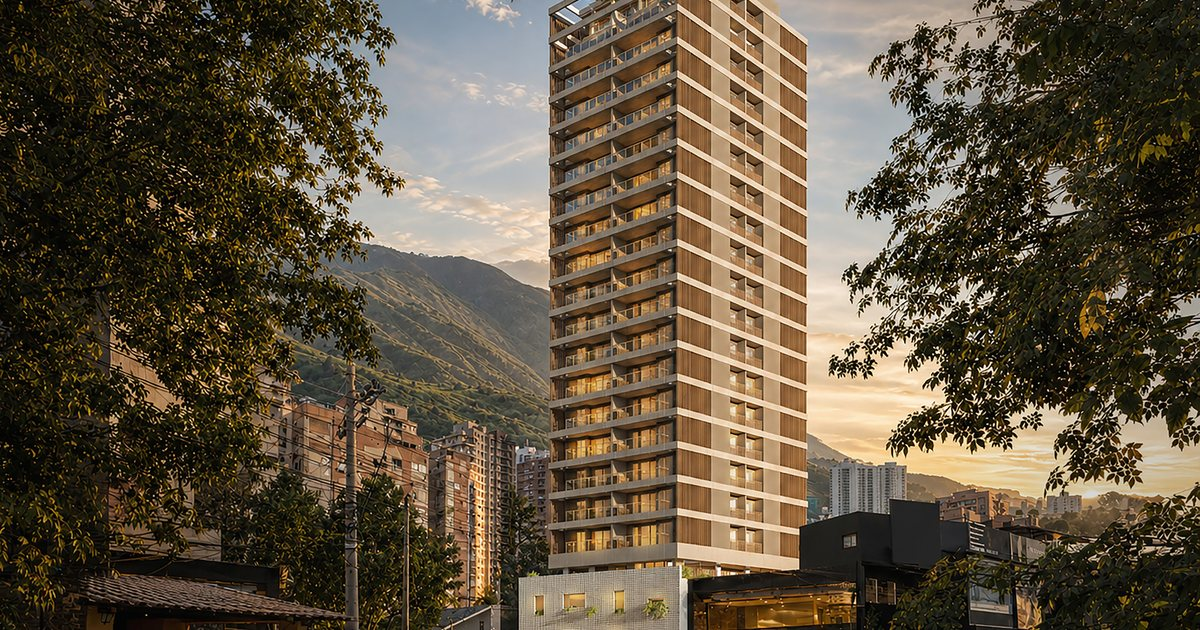
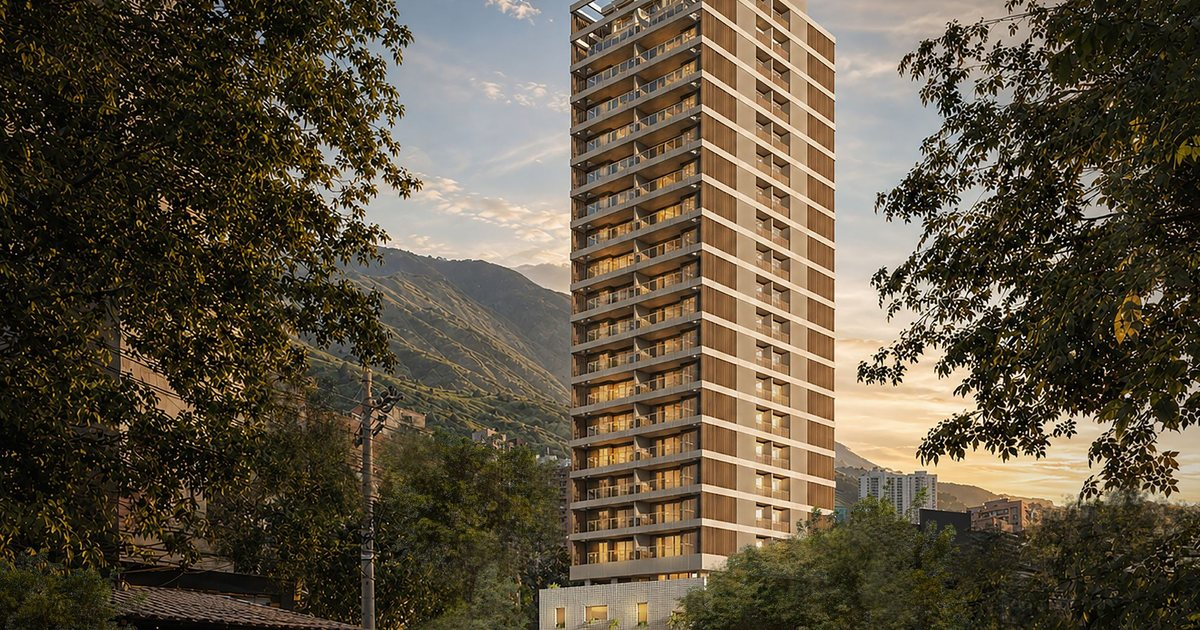
Atualiza renders e textos conforme o book comercial Rev03 e o documento de informações exclusivas
- Troca todos os renders pelas imagens novas do empreendimento (fachada, brises,
  lounge/portaria, piscina, gourmet, academia, spa, sauna, brinquedoteca, coworking,
  salão de festas, sala, suíte master, cozinha, lavabo, banho suíte, varanda)
- Mapa ilustrativo do entorno no lugar do iframe do Google Maps, linkando pro Maps
- Remove todas as menções a valores (preço, tabela e entrada) do site, meta tags e JSON-LD
- Tipologias reais: 64 unidades, 71,52 a 71,77 m² do 1º ao 15º pavimento em três
  opções de planta, e quatro coberturas duplex de 3 suítes com 127,26 a 127,70 m²
- Acabamentos e infraestrutura: porcelanato Eliane 90x90, granito, Deca, Pormade
  com biometria, 187 mil litros de água, ramal exclusivo e reservatório de reuso
- Lazer completo do PUC e coworking no térreo, conforme o documento
- Localização: rua sem saída pela Av. Dr. Mário Guimarães, acessos, entorno,
  escolas, universidades e Praça do Skate
- Créditos de projeto e nota legal da NBR 12.721

diff --git a/index.html b/index.html
@@ -3,14 +3,14 @@
 <head>
 <meta charset="UTF-8">
 <meta name="viewport" content="width=device-width, initial-scale=1, viewport-fit=cover">
-<title>Apartamento 2 Quartos à Venda em Nova Iguaçu RJ | Fiore Residences</title>
-<meta name="description" content="Apartamentos de 2 quartos com suíte e vaga à venda em Nova Iguaçu, RJ. Fiore Residences, por Absoluto Engenharia, a partir de R$ 800 mil, com financiamento direto com a construtora e entrega prevista para dezembro de 2026. Piscina, academia, gourmet e coworking. Cadastre-se e receba as condições de pré-lançamento.">
+<title>Fiore Residences | Apartamentos de 2 e 3 Suítes em Nova Iguaçu, RJ</title>
+<meta name="description" content="Fiore Residences, lançamento da Absoluto Engenharia no centro de Nova Iguaçu, RJ. 64 unidades exclusivas de 71,52 m² a 127,70 m², com 2 ou 3 suítes, varanda gourmet e vaga. Piscina, academia, spa, sauna, salão de festas, brinquedoteca e coworking. Cadastre-se e receba as plantas e as condições de pré-lançamento.">
 <meta name="theme-color" content="#100D09">
 <link rel="icon" type="image/png" href="img/favicon.png">
 <link rel="icon" type="image/png" sizes="192x192" href="img/icon-192.png">
 <link rel="apple-touch-icon" href="img/icon-192.png">
-<meta property="og:title" content="Fiore Residences. Apartamento de 2 quartos à venda em Nova Iguaçu, RJ">
-<meta property="og:description" content="Apartamentos de 2 quartos com suíte e vaga, a partir de R$ 800 mil, com financiamento direto com a construtora e entrega em dezembro de 2026. Piscina, academia, gourmet e coworking, na melhor localização de Nova Iguaçu, RJ.">
+<meta property="og:title" content="Fiore Residences. Apartamentos de 2 e 3 suítes em Nova Iguaçu, RJ">
+<meta property="og:description" content="64 unidades exclusivas de 71,52 m² a 127,70 m², com varanda gourmet e vaga, no coração de Nova Iguaçu. Lazer de clube com piscina, academia, spa, sauna, salão de festas e coworking. Um lançamento Absoluto Engenharia.">
 <meta property="og:url" content="https://fiore-residences.vercel.app/">
 <meta property="og:site_name" content="Fiore Residences">
 <meta property="og:image" content="img/og.jpg">
@@ -27,7 +27,7 @@ j=d.createElement(s),dl=l!='dataLayer'?'&l='+l:'';j.async=true;j.src=
 <link rel="stylesheet" href="css/style.css">
 <link rel="canonical" href="https://fiore-residences.vercel.app/">
 <script type="application/ld+json">
-{"@context":"https://schema.org","@type":"Residence","name":"Fiore Residences","description":"Apartamentos de 2 quartos com suíte e vaga e coberturas em Nova Iguaçu, RJ. Lançamento Absoluto Engenharia, a partir de R$ 800 mil, com financiamento direto com a construtora e entrega prevista para dezembro de 2026.","url":"https://fiore-residences.vercel.app/","image":"https://fiore-residences.vercel.app/img/og.jpg","numberOfRooms":2,"address":{"@type":"PostalAddress","streetAddress":"Rua Hermida Cerbino, 95","addressLocality":"Nova Iguaçu","addressRegion":"RJ","postalCode":"26255-390","addressCountry":"BR"},"developer":{"@type":"Organization","name":"Absoluto Engenharia","url":"https://absoluto-engenharia.vercel.app/"},"offers":{"@type":"Offer","priceCurrency":"BRL","price":"800000","availability":"https://schema.org/PreOrder"}}
+{"@context":"https://schema.org","@type":"Residence","name":"Fiore Residences","description":"Apartamentos de 2 e 3 suítes em Nova Iguaçu, RJ. 64 unidades exclusivas de 71,52 m² a 127,70 m², com varanda gourmet e vaga. Lançamento Absoluto Engenharia em parceria com a WSequeira, com entrega prevista para dezembro de 2026.","url":"https://fiore-residences.vercel.app/","image":"https://fiore-residences.vercel.app/img/og.jpg","numberOfRooms":2,"address":{"@type":"PostalAddress","streetAddress":"Rua Hermida Cerbino, 95","addressLocality":"Nova Iguaçu","addressRegion":"RJ","postalCode":"26255-390","addressCountry":"BR"},"developer":{"@type":"Organization","name":"Absoluto Engenharia","url":"https://absoluto-engenharia.vercel.app/"}}
 </script>
 </head>
 <body>
@@ -88,7 +88,7 @@ height="0" width="0" style="display:none;visibility:hidden"></iframe></noscript>
     <video class="hero-video" autoplay muted loop playsinline preload="auto" poster="img/hero-poster.jpg" aria-hidden="true">
       <source src="video/hero.mp4" type="video/mp4">
     </video>
-    <img class="hero-fallback" src="img/hero.jpg" alt="Torre Fiore Residences ao entardecer, na melhor localização de Nova Iguaçu" fetchpriority="high">
+    <img class="hero-fallback" src="img/v2/destaques.jpg" alt="Torre do Fiore Residences ao entardecer, com o Maciço da Mendanha ao fundo, em Nova Iguaçu" fetchpriority="high">
   </div>
   <div class="hero-shade" aria-hidden="true"></div>
   <div class="wrap hero-inner">
@@ -102,7 +102,7 @@ height="0" width="0" style="display:none;visibility:hidden"></iframe></noscript>
 
     <div class="hero-floor">
       <div class="hero-lead" data-rise>
-        <p>Pré-lançamento. Apartamentos de 2 quartos a partir de R$ 800 mil, com financiamento direto com a construtora e entrega prevista para dezembro de 2026. Cadastre-se e receba a tabela e as plantas.</p>
+        <p>Pré-lançamento no coração de Nova Iguaçu. 64 unidades exclusivas de 2 e 3 suítes, todas com varanda gourmet e vaga, em uma torre autoral com lazer de clube. Cadastre-se e receba as plantas.</p>
         <div class="hero-actions">
           <a class="btn btn-primary" href="#cadastro" data-cursor data-magnetic>
             Quero as condições do pré-lançamento
@@ -117,9 +117,9 @@ height="0" width="0" style="display:none;visibility:hidden"></iframe></noscript>
 
       <div class="hero-aside" data-rise>
         <div class="hero-proof">
-          <div class="proof-item"><strong>R$ 800 mil</strong><span>a partir de</span></div>
+          <div class="proof-item"><strong>64 unidades</strong><span>exclusivas</span></div>
           <div class="proof-line"></div>
-          <div class="proof-item"><strong>2 quartos</strong><span>suíte · vaga</span></div>
+          <div class="proof-item"><strong>71 a 127 m²</strong><span>2 e 3 suítes</span></div>
           <div class="proof-line"></div>
           <div class="proof-item"><strong>Clube</strong><span>lazer completo</span></div>
         </div>
@@ -135,10 +135,10 @@ height="0" width="0" style="display:none;visibility:hidden"></iframe></noscript>
     <div class="manifesto-text">
       <span class="eyebrow dot" data-rise>O Empreendimento</span>
       <h2 class="display h-l manifesto-h" data-split>Uma torre que<br>se destaca</h2>
-      <p class="lead" data-rise>O Fiore Residences nasce de uma arquitetura autoral. Uma torre esguia, vestida por uma fachada de cobogó que filtra a luz, ventila os ambientes e dá ao edifício uma identidade que não se repete em Nova Iguaçu.</p>
+      <p class="lead" data-rise>No embasamento, uma fachada vazada de cobogós filtra a luz e ventila os ambientes. À noite, o edifício se transforma em uma luminária urbana que ilumina a rua. Sobre o pilotis de lazer, um volume puro parece flutuar, com brises que garantem privacidade, luz filtrada e ventilação aos apartamentos.</p>
       <div class="manifesto-foot">
-        <p data-rise>Apartamentos de 2 quartos e coberturas, varandas generosas e um clube completo de lazer, na melhor localização de Nova Iguaçu. Um endereço que não se repete.</p>
-        <span class="sign" data-rise>Fiore Residences, por Absoluto Engenharia.</span>
+        <p data-rise>São 64 unidades exclusivas, de 2 a 3 suítes, todas com varanda ampla debruçada sobre o Maciço da Mendanha. Arquitetura e interiores assinados pelo Studio R em colaboração com a Catolé Arquitetura.</p>
+        <span class="sign" data-rise>Fiore Residences. Absoluto Engenharia e WSequeira.</span>
       </div>
       <a class="btn btn-primary btn-lg" style="margin-top:30px" href="https://fiore-tour-360.vercel.app/" target="_blank" rel="noopener" data-rise data-cursor data-magnetic aria-label="Abrir o tour virtual do apartamento modelo">
         Tour virtual do apartamento
@@ -148,7 +148,7 @@ height="0" width="0" style="display:none;visibility:hidden"></iframe></noscript>
     <div class="manifesto-media" data-rise>
       <span class="media-tag">Fiore · Nova Iguaçu</span>
       <div class="media-img">
-        <img src="img/tower.jpg" alt="A torre Fiore Residences vista de baixo, ao entardecer" loading="lazy">
+        <img src="img/v2/capa.jpg" alt="A torre do Fiore Residences vista da rua, com o embasamento em cobogó" loading="lazy">
         <span class="mi-cap">Fachada autoral</span>
       </div>
     </div>
@@ -163,7 +163,7 @@ height="0" width="0" style="display:none;visibility:hidden"></iframe></noscript>
   <div class="wrap">
     <span class="eyebrow" data-rise>O dia inteiro, dentro de casa</span>
     <h2 data-split>Lazer com cara<br>de resort</h2>
-    <p class="banner-sub" data-rise>Da piscina ao spa, do gourmet ao coworking. Tudo pensado para que você não precise sair para viver bem.</p>
+    <p class="banner-sub" data-rise>Da piscina ao spa, do forno de pizza ao coworking. Um pavimento inteiro de lazer, entregue equipado e montado para uso exclusivo dos moradores.</p>
   </div>
 </section>
 
@@ -182,73 +182,81 @@ height="0" width="0" style="display:none;visibility:hidden"></iframe></noscript>
       <div class="gal-item intro-card">
         <span class="eyebrow" style="margin-bottom:18px">Nova Iguaçu · RJ</span>
         <p class="display h-m" style="font-weight:500">Cada perspectiva, uma nova razão para morar aqui.</p>
-        <p class="lead" style="margin-top:18px;color:var(--muted)">Imagens preliminares do projeto. Role para o lado.</p>
+        <p class="lead" style="margin-top:18px;color:var(--muted)">Imagens ilustrativas do projeto. Role para o lado.</p>
       </div>
-      <div class="gal-item"><img src="img/facade.jpg" alt="Fachada frontal do Fiore com cobogó e o acesso principal" loading="lazy"><span class="cap">Fachada</span></div>
-      <div class="gal-item"><img src="img/areas/lobby-01.jpg" alt="Lobby do Fiore com luminárias pendentes, poltrona e ripado de madeira" loading="lazy"><span class="cap">Lobby</span></div>
-      <div class="gal-item"><img src="img/cobogo.jpg" alt="Detalhe da fachada em cobogó do Fiore com vegetação" loading="lazy"><span class="cap">Cobogó</span></div>
-      <div class="gal-item"><img src="img/areas/piscina-1.jpg" alt="Piscina do Fiore com deck e ombrelones junto à fachada" loading="lazy"><span class="cap">Piscina</span></div>
-      <div class="gal-item"><img src="img/floors.jpg" alt="Pavimentos superiores do Fiore iluminados ao entardecer" loading="lazy"><span class="cap">Varandas</span></div>
-      <div class="gal-item"><img src="img/areas/gourmet-1.jpg" alt="Espaço gourmet do Fiore com bancada, banquetas e adega" loading="lazy"><span class="cap">Gourmet</span></div>
-      <div class="gal-item portrait"><img src="img/tower.jpg" alt="A torre Fiore Residences em toda a sua altura" loading="lazy"><span class="cap">A torre</span></div>
-      <div class="gal-item"><img src="img/areas/academia-2.jpg" alt="Academia do Fiore com vidro do piso ao teto ao pôr do sol" loading="lazy"><span class="cap">Academia</span></div>
-      <div class="gal-item"><img src="img/corner.jpg" alt="Vista em perspectiva da torre Fiore Residences em Nova Iguaçu" loading="lazy"><span class="cap">A torre</span></div>
-      <div class="gal-item"><img src="img/areas/spa.jpg" alt="Spa do Fiore com ambiente minimalista e vista para fora" loading="lazy"><span class="cap">Spa</span></div>
-      <div class="gal-item"><img src="img/entrance.jpg" alt="Acesso do Fiore em ripado de madeira com paisagismo" loading="lazy"><span class="cap">Acesso</span></div>
+      <div class="gal-item"><img src="img/v2/fachada.jpg" alt="Fachada do Fiore Residences com brises e embasamento em cobogó" loading="lazy"><span class="cap">Fachada</span></div>
+      <div class="gal-item"><img src="img/v2/lounge-portaria-01.jpg" alt="Lounge e portaria do Fiore com pé-direito alto e iluminação quente" loading="lazy"><span class="cap">Lounge e portaria</span></div>
+      <div class="gal-item"><img src="img/v2/brises.jpg" alt="Detalhe dos brises articulados da fachada do Fiore" loading="lazy"><span class="cap">Brises</span></div>
+      <div class="gal-item"><img src="img/v2/piscina-01.jpg" alt="Piscina adulto e infantil do Fiore com deck e espreguiçadeiras" loading="lazy"><span class="cap">Piscina</span></div>
+      <div class="gal-item"><img src="img/v2/varanda.jpg" alt="Varanda gourmet do Fiore com vista para a cidade" loading="lazy"><span class="cap">Varanda gourmet</span></div>
+      <div class="gal-item"><img src="img/v2/area-gourmet-01.jpg" alt="Área gourmet do Fiore com bancada, churrasqueira e forno de pizza" loading="lazy"><span class="cap">Área gourmet</span></div>
+      <div class="gal-item portrait"><img src="img/v2/capa.jpg" alt="A torre do Fiore Residences em toda a sua altura" loading="lazy"><span class="cap">A torre</span></div>
+      <div class="gal-item"><img src="img/v2/academia-01.jpg" alt="Academia do Fiore com equipamentos e vidro do piso ao teto" loading="lazy"><span class="cap">Academia</span></div>
+      <div class="gal-item"><img src="img/v2/sala-01.jpg" alt="Sala de estar de um apartamento do Fiore, integrada à varanda" loading="lazy"><span class="cap">Sala</span></div>
+      <div class="gal-item"><img src="img/v2/suite-master-01.jpg" alt="Suíte master de um apartamento do Fiore" loading="lazy"><span class="cap">Suíte master</span></div>
+      <div class="gal-item"><img src="img/v2/cozinha-gourmet.jpg" alt="Cozinha do Fiore com bancada em granito e cuba gourmet em aço inoxidável" loading="lazy"><span class="cap">Cozinha</span></div>
+      <div class="gal-item portrait"><img src="img/v2/lavabo.jpg" alt="Lavabo de um apartamento do Fiore" loading="lazy"><span class="cap">Lavabo</span></div>
+      <div class="gal-item"><img src="img/v2/banheiro-suite-01.jpg" alt="Banheiro de suíte do Fiore com bancada em granito" loading="lazy"><span class="cap">Banho suíte</span></div>
+      <div class="gal-item"><img src="img/v2/spa.jpg" alt="Spa do Fiore com ambiente minimalista" loading="lazy"><span class="cap">Spa</span></div>
+      <div class="gal-item"><img src="img/v2/salao-festas-01.jpg" alt="Salão de festas do Fiore com mesas e lounge" loading="lazy"><span class="cap">Salão de festas</span></div>
+      <div class="gal-item"><img src="img/v2/entrada.jpg" alt="Acesso do Fiore com cobogó, canteiros e paisagismo" loading="lazy"><span class="cap">Acesso</span></div>
     </div>
     <div class="gal-progress"><i data-gal-prog></i></div>
   </div>
 </section>
 
-<!-- ============ FEATURES (lifestyle) ============ -->
+<!-- ============ LAZER ============ -->
 <section class="feats tone-warm" id="lazer">
   <div class="wrap">
     <div class="diff-head">
       <h2 class="display h-l" data-split>Um clube dentro<br>de casa</h2>
-      <p class="lead" data-rise>Piscina, espaço gourmet, academia, spa e muito mais. Áreas comuns desenhadas como uma extensão do seu apartamento.</p>
+      <p class="lead" data-rise>Piscina adulto e infantil, brinquedoteca, academia, sauna a vapor, spa, salão de festas, churrasqueira, forno de pizza, área gourmet e copa cozinha. Tudo em um único pavimento de lazer, entregue equipado e montado. No térreo, uma sala de coworking exclusiva para reuniões dos moradores; nos quatro pavimentos de garagem, bicicletários.</p>
     </div>
     <div class="amen-grid">
-      <div class="amen feature" data-rise><img src="img/areas/piscina-1.jpg" alt="Piscina do Fiore com deck e ombrelones junto à fachada em cobogó" loading="lazy"><span class="cap">Piscina</span></div>
-      <div class="amen" data-rise><img src="img/areas/gourmet-1.jpg" alt="Espaço gourmet do Fiore com bancada, banquetas e adega" loading="lazy"><span class="cap">Espaço gourmet</span></div>
-      <div class="amen" data-rise><img src="img/areas/lobby-01.jpg" alt="Lobby do Fiore com luminárias pendentes e poltrona" loading="lazy"><span class="cap">Lobby</span></div>
-      <div class="amen" data-rise><img src="img/areas/academia-1.jpg" alt="Academia do Fiore com vidro do piso ao teto" loading="lazy"><span class="cap">Academia</span></div>
-      <div class="amen" data-rise><img src="img/areas/spa.jpg" alt="Spa do Fiore com ambiente minimalista e vista para fora" loading="lazy"><span class="cap">Spa</span></div>
-      <div class="amen" data-rise><img src="img/areas/festas-1.jpg" alt="Salão de festas do Fiore com lounge e vista" loading="lazy"><span class="cap">Salão de festas</span></div>
-      <div class="amen" data-rise><img src="img/areas/kids.jpg" alt="Espaço kids do Fiore com cabana e área de brincar" loading="lazy"><span class="cap">Espaço kids</span></div>
-      <div class="amen" data-rise><img src="img/areas/coworking.jpg" alt="Coworking do Fiore em madeira com sala de reunião" loading="lazy"><span class="cap">Coworking</span></div>
-      <div class="amen" data-rise><img src="img/areas/sauna.jpg" alt="Sauna do Fiore com banco e luz quente" loading="lazy"><span class="cap">Sauna</span></div>
+      <div class="amen feature" data-rise><img src="img/v2/piscina-02.jpg" alt="Piscina do Fiore com deck, espreguiçadeiras e vegetação" loading="lazy"><span class="cap">Piscina adulto e infantil</span></div>
+      <div class="amen" data-rise><img src="img/v2/area-gourmet-02.jpg" alt="Área gourmet do Fiore com bancada e banquetas" loading="lazy"><span class="cap">Área gourmet</span></div>
+      <div class="amen" data-rise><img src="img/v2/lounge-portaria-01.jpg" alt="Lounge e portaria do Fiore" loading="lazy"><span class="cap">Lounge e portaria</span></div>
+      <div class="amen" data-rise><img src="img/v2/academia-02.jpg" alt="Academia do Fiore com vista para a área externa" loading="lazy"><span class="cap">Academia</span></div>
+      <div class="amen" data-rise><img src="img/v2/spa.jpg" alt="Spa do Fiore" loading="lazy"><span class="cap">Spa</span></div>
+      <div class="amen" data-rise><img src="img/v2/salao-festas-02.jpg" alt="Salão de festas do Fiore com lounge e integração com a área externa" loading="lazy"><span class="cap">Salão de festas</span></div>
+      <div class="amen" data-rise><img src="img/v2/brinquedoteca.jpg" alt="Brinquedoteca do Fiore com área de brincar para crianças" loading="lazy"><span class="cap">Brinquedoteca</span></div>
+      <div class="amen" data-rise><img src="img/v2/coworking.jpg" alt="Coworking do Fiore no térreo, com mesa de reunião" loading="lazy"><span class="cap">Coworking</span></div>
+      <div class="amen" data-rise><img src="img/v2/sauna.jpg" alt="Sauna a vapor do Fiore" loading="lazy"><span class="cap">Sauna a vapor</span></div>
     </div>
   </div>
 </section>
 
-<!-- ============ BANNER 2 (lobby) ============ -->
+<!-- ============ BANNER 2 (lounge) ============ -->
 <section class="banner">
-  <div class="banner-bg" data-banner-bg><img src="img/areas/lobby-02.jpg" alt="Lobby do Fiore Residences em ripado de madeira e iluminação quente" loading="lazy"></div>
+  <div class="banner-bg" data-banner-bg><img src="img/v2/lounge-portaria-02.jpg" alt="Lounge e portaria do Fiore Residences com iluminação quente" loading="lazy"></div>
   <div class="wrap">
     <span class="eyebrow" data-rise>Receber como em um hotel</span>
     <h2 data-split>Um lobby que dá<br>o tom da casa</h2>
-    <p class="banner-sub" data-rise>Madeira e luz quente desde a chegada. O Fiore recebe quem mora e quem visita com a hospitalidade de um hotel de destino.</p>
+    <p class="banner-sub" data-rise>Piso em porcelanato, madeira e luz quente desde a chegada. O Fiore recebe quem mora e quem visita com a hospitalidade de um hotel de destino.</p>
   </div>
 </section>
 
-<!-- ============ PLANTAS / MATERIAL ============ -->
-<section class="plans tone-warm">
+<!-- ============ MATERIAL COMPLETO ============ -->
+<section class="plans">
   <div class="wrap">
     <div class="plans-card" data-rise>
       <div>
-        <span class="eyebrow">Tipologias &amp; Valores</span>
-        <h2 class="display h-m" style="margin-top:.4em">Apartamento de 2 quartos em Nova Iguaçu,<br>a partir de R$ 800 mil</h2>
+        <span class="eyebrow">Tipologias</span>
+        <h2 class="display h-m" style="margin-top:.4em">Apartamentos de 2 e 3 suítes<br>no centro de Nova Iguaçu</h2>
         <ul class="plans-list">
-          <li><svg viewBox="0 0 24 24" fill="none" stroke="currentColor" stroke-width="2"><path d="M20 6 9 17l-5-5" stroke-linecap="round" stroke-linejoin="round"/></svg>Apartamentos de 2 quartos, com suíte e vaga</li>
-          <li><svg viewBox="0 0 24 24" fill="none" stroke="currentColor" stroke-width="2"><path d="M20 6 9 17l-5-5" stroke-linecap="round" stroke-linejoin="round"/></svg>Financiamento direto com a construtora</li>
+          <li><svg viewBox="0 0 24 24" fill="none" stroke="currentColor" stroke-width="2"><path d="M20 6 9 17l-5-5" stroke-linecap="round" stroke-linejoin="round"/></svg>64 unidades exclusivas, quatro apartamentos por andar</li>
+          <li><svg viewBox="0 0 24 24" fill="none" stroke="currentColor" stroke-width="2"><path d="M20 6 9 17l-5-5" stroke-linecap="round" stroke-linejoin="round"/></svg>Do 1º ao 15º pavimento, de 71,52 m² a 71,77 m², em três opções de planta: duas suítes; uma suíte com closet e um quarto; ou sala ampla com uma suíte e um quarto</li>
+          <li><svg viewBox="0 0 24 24" fill="none" stroke="currentColor" stroke-width="2"><path d="M20 6 9 17l-5-5" stroke-linecap="round" stroke-linejoin="round"/></svg>Quatro coberturas duplex de três suítes, com 127,26 m² a 127,70 m² e duas vagas, nos 16º e 17º pavimentos</li>
+          <li><svg viewBox="0 0 24 24" fill="none" stroke="currentColor" stroke-width="2"><path d="M20 6 9 17l-5-5" stroke-linecap="round" stroke-linejoin="round"/></svg>Todas com lavabo, cozinha, área de serviço, varanda gourmet, vaga e infraestrutura de ar-condicionado com área técnica externa</li>
+          <li><svg viewBox="0 0 24 24" fill="none" stroke="currentColor" stroke-width="2"><path d="M20 6 9 17l-5-5" stroke-linecap="round" stroke-linejoin="round"/></svg>Porcelanato Eliane 90 x 90, bancadas em granito com cubas gourmet em inox, metais Deca e portas Pormade com fechadura biométrica</li>
+          <li><svg viewBox="0 0 24 24" fill="none" stroke="currentColor" stroke-width="2"><path d="M20 6 9 17l-5-5" stroke-linecap="round" stroke-linejoin="round"/></svg>187 mil litros de água armazenada, com ramal de abastecimento exclusivo e reservatório de reuso da água da chuva</li>
           <li><svg viewBox="0 0 24 24" fill="none" stroke="currentColor" stroke-width="2"><path d="M20 6 9 17l-5-5" stroke-linecap="round" stroke-linejoin="round"/></svg>Entrega prevista para dezembro de 2026</li>
-          <li><svg viewBox="0 0 24 24" fill="none" stroke="currentColor" stroke-width="2"><path d="M20 6 9 17l-5-5" stroke-linecap="round" stroke-linejoin="round"/></svg>Lazer completo: piscina, academia, gourmet e coworking</li>
         </ul>
       </div>
       <aside class="plans-aside">
         <span class="tag">Material exclusivo</span>
         <p class="big metal-text">Fiore<br>Residences</p>
-        <p>Receba no seu WhatsApp a tabela completa, as plantas, o valor da entrada e as condições de financiamento direto com a construtora.</p>
+        <p>Receba no seu WhatsApp o book completo do empreendimento, com as plantas das três tipologias, a cobertura duplex e as condições do pré-lançamento.</p>
         <a class="btn btn-primary btn-lg" style="width:100%;justify-content:center" href="https://wa.me/5521991024201?text=Ol%C3%A1!%20Quero%20receber%20o%20material%20completo%20do%20Fiore%20Residences." target="_blank" rel="noopener" data-cursor>
           Falar no WhatsApp
           <svg viewBox="0 0 24 24" fill="currentColor"><path d="M12 2a10 10 0 0 0-8.6 15l-1.3 4.7 4.8-1.3A10 10 0 1 0 12 2Zm5.6 14.2c-.2.6-1.2 1.2-1.7 1.2-.5.1-1 .1-1.6-.1-.4-.1-.9-.3-1.5-.5-2.6-1.1-4.3-3.7-4.4-3.9-.1-.2-1-1.4-1-2.6s.6-1.8.9-2.1c.2-.2.5-.3.7-.3h.5c.2 0 .4 0 .6.5l.8 1.9c.1.1.1.3 0 .5l-.4.5-.3.3c-.1.1-.3.3-.1.6.2.3.8 1.3 1.7 2.1 1.2 1 2.1 1.4 2.4 1.5.2.1.4.1.5-.1l.7-.9c.2-.3.4-.2.6-.1l1.8.9c.3.1.4.2.5.3.1.2.1.6-.1 1.2Z"/></svg>
@@ -264,10 +272,10 @@ height="0" width="0" style="display:none;visibility:hidden"></iframe></noscript>
     <div class="lead-copy">
       <span class="eyebrow" data-rise>Cadastre-se</span>
       <h2 class="display h-l" data-split>Seja o primeiro<br>a conhecer o Fiore</h2>
-      <p class="lead" data-rise>Preencha seus dados e nosso time entra em contato pelo WhatsApp com as condições exclusivas de pré-lançamento, as plantas e a tabela de valores.</p>
+      <p class="lead" data-rise>Preencha seus dados e nosso time entra em contato pelo WhatsApp com as plantas, o book completo e as condições exclusivas de pré-lançamento.</p>
       <ul class="lead-points">
-        <li data-rise><svg viewBox="0 0 24 24" fill="none" stroke="currentColor" stroke-width="2"><path d="M20 6 9 17l-5-5" stroke-linecap="round" stroke-linejoin="round"/></svg>Preço de pré-lançamento e financiamento direto com a construtora</li>
-        <li data-rise><svg viewBox="0 0 24 24" fill="none" stroke="currentColor" stroke-width="2"><path d="M20 6 9 17l-5-5" stroke-linecap="round" stroke-linejoin="round"/></svg>Plantas, tabela de valores e valor da entrada</li>
+        <li data-rise><svg viewBox="0 0 24 24" fill="none" stroke="currentColor" stroke-width="2"><path d="M20 6 9 17l-5-5" stroke-linecap="round" stroke-linejoin="round"/></svg>Plantas das três tipologias e da cobertura duplex</li>
+        <li data-rise><svg viewBox="0 0 24 24" fill="none" stroke="currentColor" stroke-width="2"><path d="M20 6 9 17l-5-5" stroke-linecap="round" stroke-linejoin="round"/></svg>Condições exclusivas de pré-lançamento</li>
         <li data-rise><svg viewBox="0 0 24 24" fill="none" stroke="currentColor" stroke-width="2"><path d="M20 6 9 17l-5-5" stroke-linecap="round" stroke-linejoin="round"/></svg>Atendimento humano e sem compromisso</li>
       </ul>
     </div>
@@ -314,12 +322,17 @@ height="0" width="0" style="display:none;visibility:hidden"></iframe></noscript>
     <div class="visit-grid">
       <div>
         <span class="eyebrow" data-rise>Localização</span>
-        <h2 class="display h-l" data-split style="margin-top:.3em">A melhor localização<br>de Nova Iguaçu</h2>
-        <p class="lead" data-rise style="margin-top:1.1em">Na melhor rua de Nova Iguaçu, no bairro Alvarez, a poucos minutos do Shopping Nova Iguaçu, da Unigranrio, do Mercure Hotel e da Smart Fit, com fácil acesso ao Rio de Janeiro.</p>
+        <h2 class="display h-l" data-split style="margin-top:.3em">No coração de<br>Nova Iguaçu</h2>
+        <p class="lead" data-rise style="margin-top:1.1em">A Rua Hermida Cerbino é uma rua sem saída, com acesso único pela Avenida Dr. Mário Guimarães, a via residencial mais importante da cidade. Quem chega pelo viaduto do Centro está a poucos metros de casa; para voltar, basta uma volta na quadra.</p>
         <div class="info-rows">
-          <div class="info-row" data-rise><span class="k">Tipologias</span><span class="v">2 quartos e coberturas<small>Apartamentos de 2 quartos e coberturas exclusivas.</small></span></div>
+          <div class="info-row" data-rise><span class="k">Tipologias</span><span class="v">2 e 3 suítes, de 71,52 m² a 127,70 m²<small>Três opções de planta do 1º ao 15º pavimento e quatro coberturas duplex de três suítes nos 16º e 17º.</small></span></div>
           <div class="info-row" data-rise><span class="k">Endereço</span><span class="v"><a href="https://www.google.com/maps?q=Rua+Hermida+Cerbino+95+Nova+Igua%C3%A7u+RJ" target="_blank" rel="noopener" data-cursor>Rua Hermida Cerbino, 95<small>Alvarez · Nova Iguaçu · Rio de Janeiro · CEP 26255-390</small></a></span></div>
-          <div class="info-row" data-rise><span class="k">Construtora</span><span class="v"><a href="https://absoluto-engenharia.vercel.app/" target="_blank" rel="noopener" data-cursor>Absoluto Engenharia</a><small>Dez anos de mercado e obras entregues no RJ. O Murano Residences, em Nova Iguaçu, foi entregue em janeiro de 2026.</small></span></div>
+          <div class="info-row" data-rise><span class="k">Acessos</span><span class="v">Saída direta para a Dutra<small>Av. Dr. Mário Guimarães, viaduto do Centro e saída fácil para a Rodovia Presidente Dutra. A região da entrada da Rua Hermida Cerbino não sofre com alagamentos, então sempre dá para chegar em casa.</small></span></div>
+          <div class="info-row" data-rise><span class="k">Entorno</span><span class="v">Tudo a pé<small>Os bares, restaurantes, supermercados, hortifrutis, padarias e confeitarias mais badalados da cidade. Calçadão e Shopping Nova Iguaçu a poucos minutos.</small></span></div>
+          <div class="info-row" data-rise><span class="k">Educação</span><span class="v">Escolas e universidades<small>Colégio EME, Equipe, Escola Canadense Maple Bear e Colégio Adventista. No ensino superior, Unigranrio, UNIG e UGB, com Medicina, Engenharias, Odontologia e Direito.</small></span></div>
+          <div class="info-row" data-rise><span class="k">Lazer</span><span class="v">Praça do Skate<small>A praça mais importante da cidade, com a primeira pista de skate da América Latina, playground, equipamentos de ginástica e espaço pet.</small></span></div>
+          <div class="info-row" data-rise><span class="k">Construtora</span><span class="v"><a href="https://absoluto-engenharia.vercel.app/" target="_blank" rel="noopener" data-cursor>Absoluto Engenharia</a><small>Fundada em 2016, com mais de 50 obras entregues no Rio de Janeiro. O Murano Residences, aqui em Nova Iguaçu, foi entregue em janeiro de 2026.</small></span></div>
+          <div class="info-row" data-rise><span class="k">Projeto</span><span class="v">Studio R e Catolé Arquitetura<small>Arquitetura e interiores. Desenvolvimento e estruturação WSequeira; projeto executivo A+ Arquitetura; projeto legal e viabilidade Feat Arquitetura.</small></span></div>
           <div class="info-row" data-rise><span class="k">Entrega</span><span class="v">Dezembro de 2026<small>Obra com prazo definido e baixo risco para o comprador.</small></span></div>
           <div class="info-row" data-rise><span class="k">Fase</span><span class="v">Pré-lançamento<small>Condições especiais de pré-lançamento.</small></span></div>
           <div class="info-row" data-rise><span class="k">WhatsApp</span><span class="v"><a href="https://wa.me/5521991024201" target="_blank" rel="noopener" data-cursor>+55 21 99102-4201</a></span></div>
@@ -327,8 +340,9 @@ height="0" width="0" style="display:none;visibility:hidden"></iframe></noscript>
       </div>
       <div class="map-card" data-rise>
         <div class="map-badge"><span class="pin"></span> Rua Hermida Cerbino, 95 · Nova Iguaçu</div>
-        <iframe title="Mapa Fiore Residences — Rua Hermida Cerbino, 95, Nova Iguaçu" loading="lazy" referrerpolicy="no-referrer-when-downgrade"
-          src="https://www.google.com/maps?q=Rua%20Hermida%20Cerbino%2095%20Nova%20Igua%C3%A7u%20RJ&output=embed"></iframe>
+        <a href="https://www.google.com/maps?q=Rua+Hermida+Cerbino+95+Nova+Igua%C3%A7u+RJ" target="_blank" rel="noopener" data-cursor aria-label="Abrir a localização do Fiore Residences no Google Maps">
+          <img src="img/v2/mapa.jpg" alt="Mapa ilustrativo do entorno do Fiore Residences, com shoppings, escolas, restaurantes, farmácias e a Praça do Skate" loading="lazy" style="width:100%;height:100%;object-fit:cover;min-height:inherit">
+        </a>
       </div>
     </div>
   </div>
@@ -336,7 +350,7 @@ height="0" width="0" style="display:none;visibility:hidden"></iframe></noscript>
 
 <!-- ============ FINAL CTA ============ -->
 <section class="final">
-  <div class="final-bg"><img src="img/floors.jpg" alt="Pavimentos do Fiore iluminados ao entardecer" loading="lazy"></div>
+  <div class="final-bg"><img src="img/v2/fachada-noite.jpg" alt="Fachada do Fiore Residences iluminada à noite" loading="lazy"></div>
   <div class="wrap">
     <h2 class="display" data-split>Venha florescer<br>no Fiore</h2>
     <p class="lead" style="margin-inline:auto">Cadastre-se agora e garanta as condições exclusivas de pré-lançamento do Fiore Residences.</p>
@@ -355,12 +369,13 @@ height="0" width="0" style="display:none;visibility:hidden"></iframe></noscript>
     <div class="foot-top">
       <div>
         <div class="foot-logo"><img src="img/logo-horizontal.png" alt="Fiore Residences"></div>
-        <p class="foot-blurb">Fiore Residences. Um lançamento Absoluto Engenharia em Nova Iguaçu, Rio de Janeiro. Morar onde a vida floresce.</p>
+        <p class="foot-blurb">Fiore Residences. Um lançamento Absoluto Engenharia em parceria com a WSequeira, em Nova Iguaçu, Rio de Janeiro. Morar onde a vida floresce.</p>
       </div>
       <div class="foot-col">
         <h4>Navegar</h4>
         <a href="#empreendimento" data-cursor>O Empreendimento</a>
         <a href="#galeria" data-cursor>Galeria</a>
+        <a href="#plantas" data-cursor>Plantas</a>
         <a href="#localizacao" data-cursor>Localização</a>
         <a href="#cadastro" data-cursor>Cadastre-se</a>
       </div>
@@ -377,11 +392,12 @@ height="0" width="0" style="display:none;visibility:hidden"></iframe></noscript>
       <span>© 2026 Fiore Residences · Absoluto Engenharia</span>
       <span>Marketing por Inovar Mídia</span>
     </div>
+    <p class="foot-blurb" style="max-width:none;font-size:.76rem;margin-top:22px">Imagens meramente ilustrativas, com sugestão de decoração. Móveis, equipamentos e itens de decoração não integram o contrato de venda. As medidas, revestimentos e áreas poderão sofrer alterações conforme a obra, o memorial descritivo, exigências legais, concessionárias e normas técnicas aplicáveis. As áreas indicadas correspondem à área privativa, conforme critérios da NBR 12.721 da ABNT.</p>
   </div>
 </footer>
 
 <!-- ============ FLOATING SALES CTA ============ -->
-<a class="float-cta" href="https://wa.me/5521991024201?text=Ol%C3%A1!%20Quero%20falar%20com%20o%20time%20de%20vendas%20do%20Fiore%20Residences%20e%20receber%20a%20tabela%20de%20valores." target="_blank" rel="noopener" data-cursor aria-label="Falar com o time de vendas do Fiore no WhatsApp">
+<a class="float-cta" href="https://wa.me/5521991024201?text=Ol%C3%A1!%20Quero%20falar%20com%20o%20time%20de%20vendas%20do%20Fiore%20Residences%20e%20receber%20o%20material%20completo." target="_blank" rel="noopener" data-cursor aria-label="Falar com o time de vendas do Fiore no WhatsApp">
   <svg viewBox="0 0 24 24" fill="currentColor" aria-hidden="true"><path d="M12 2a10 10 0 0 0-8.6 15l-1.3 4.7 4.8-1.3A10 10 0 1 0 12 2Zm5.6 14.2c-.2.6-1.2 1.2-1.7 1.2-.5.1-1 .1-1.6-.1-.4-.1-.9-.3-1.5-.5-2.6-1.1-4.3-3.7-4.4-3.9-.1-.2-1-1.4-1-2.6s.6-1.8.9-2.1c.2-.2.5-.3.7-.3h.5c.2 0 .4 0 .6.5l.8 1.9c.1.1.1.3 0 .5l-.4.5-.3.3c-.1.1-.3.3-.1.6.2.3.8 1.3 1.7 2.1 1.2 1 2.1 1.4 2.4 1.5.2.1.4.1.5-.1l.7-.9c.2-.3.4-.2.6-.1l1.8.9c.3.1.4.2.5.3.1.2.1.6-.1 1.2Z"/></svg>
   <span>Falar com vendas</span>
 </a>
